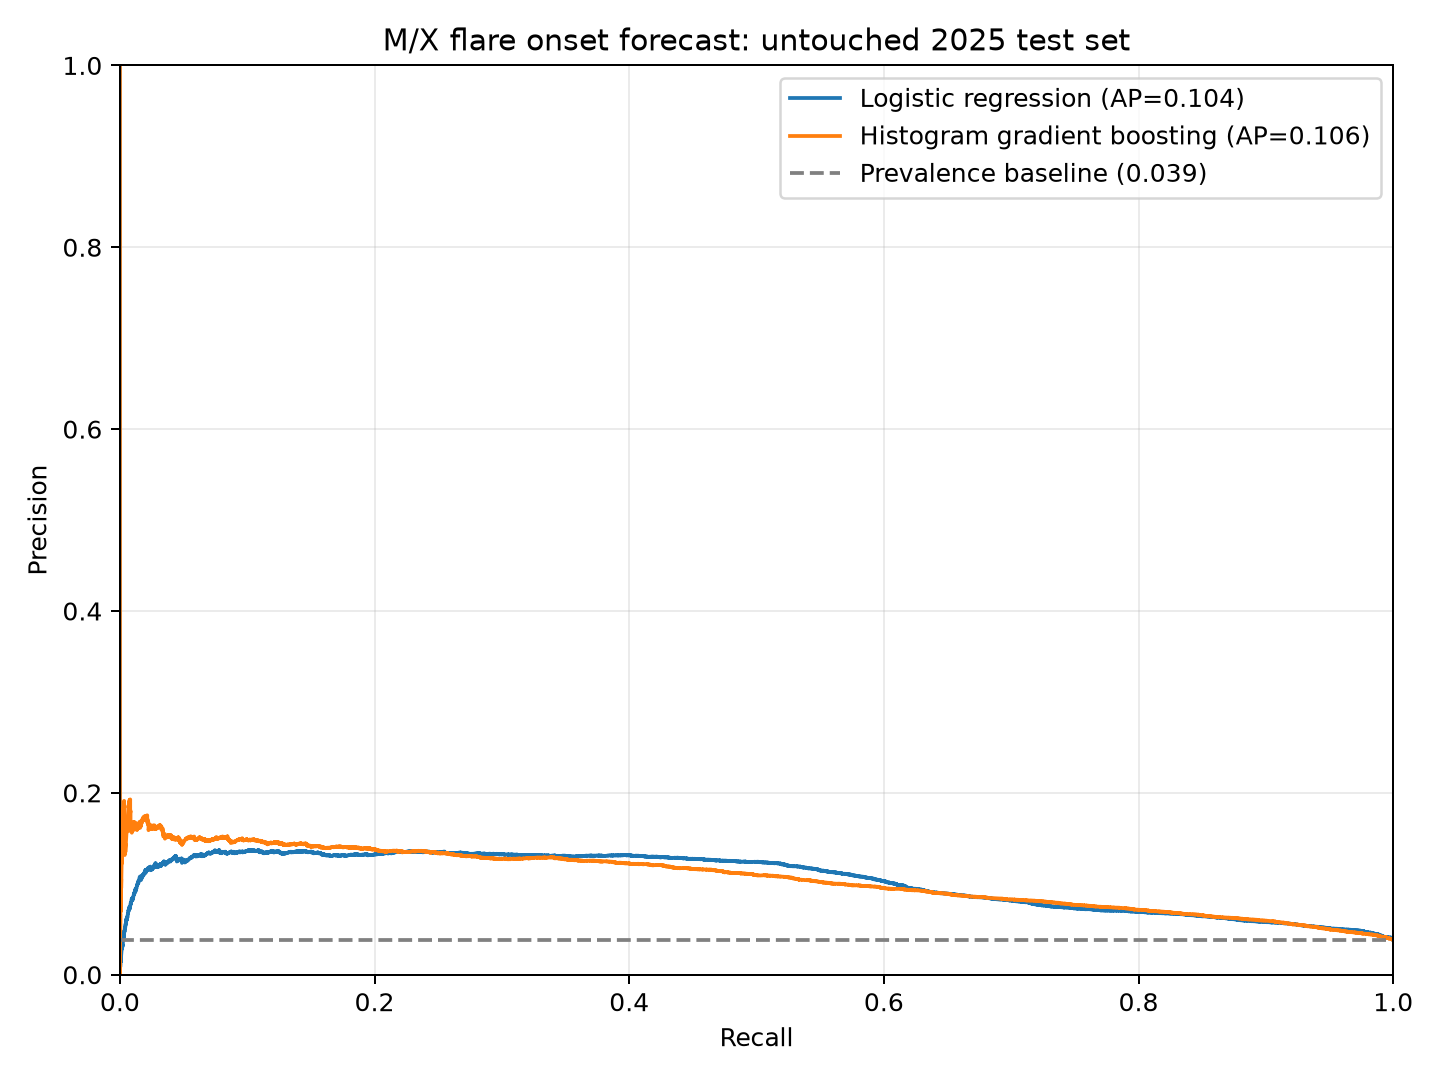
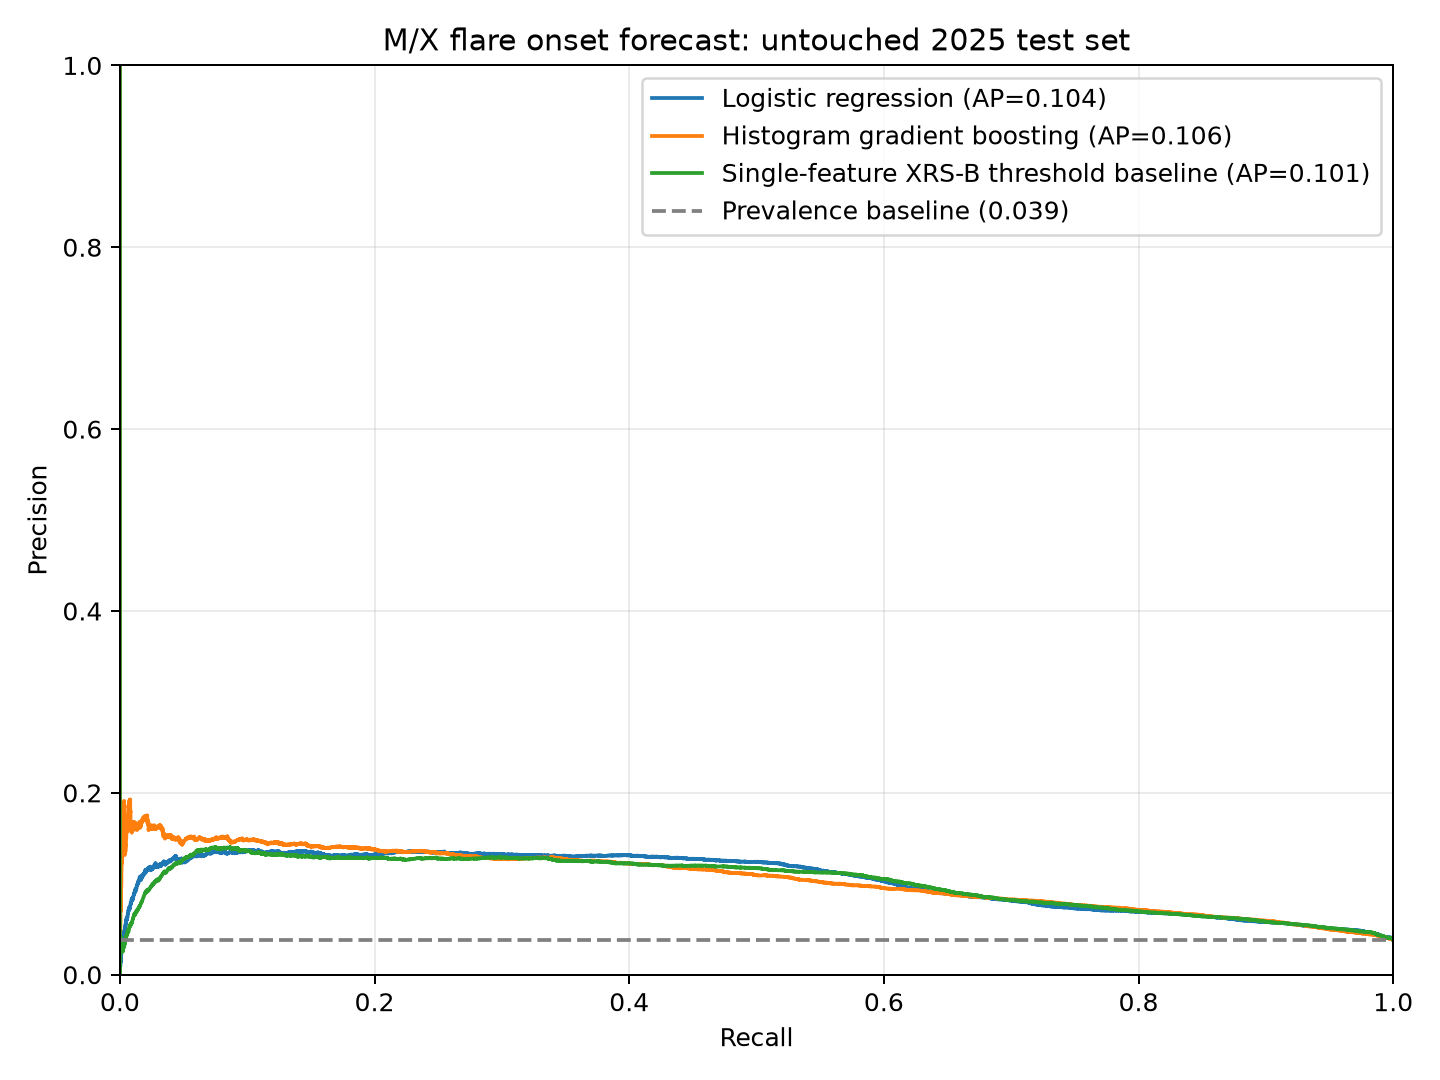
Compare forecasts with physical baseline and uncertainty

diff --git a/src/train_models.py b/src/train_models.py
@@ -49,12 +49,13 @@ def choose_f1_threshold(y_true: np.ndarray, probability: np.ndarray) -> float:
     return float(thresholds[int(np.nanargmax(f1))])
 
 
-def metrics(y_true: np.ndarray, probability: np.ndarray, threshold: float) -> dict[str, float]:
+def metrics(y_true: np.ndarray, probability: np.ndarray, threshold: float,
+            probability_score: bool = True) -> dict[str, float | None]:
     prediction = probability >= threshold
     return {
         "average_precision": float(average_precision_score(y_true, probability)),
         "roc_auc": float(roc_auc_score(y_true, probability)),
-        "brier_score": float(brier_score_loss(y_true, probability)),
+        "brier_score": float(brier_score_loss(y_true, probability)) if probability_score else None,
         "threshold": float(threshold),
         "precision_at_threshold": float(precision_score(y_true, prediction, zero_division=0)),
         "recall_at_threshold": float(recall_score(y_true, prediction, zero_division=0)),
@@ -64,13 +65,48 @@ def metrics(y_true: np.ndarray, probability: np.ndarray, threshold: float) -> di
     }
 
 
+def month_block_bootstrap(y: pd.Series, scores: dict[str, np.ndarray],
+                          repetitions: int = 1000, seed: int = 42) -> pd.DataFrame:
+    """Resample whole calendar months to retain within-month time dependence."""
+    month_labels = y.index.tz_localize(None).to_period("M")
+    month_groups = [np.flatnonzero(month_labels == month) for month in month_labels.unique()]
+    rng = np.random.default_rng(seed)
+    samples = {name: [] for name in scores}
+    for _ in range(repetitions):
+        selected = rng.integers(0, len(month_groups), size=len(month_groups))
+        indices = np.concatenate([month_groups[i] for i in selected])
+        target = y.to_numpy()[indices]
+        if target.min() == target.max():
+            continue
+        for name, score in scores.items():
+            samples[name].append(average_precision_score(target, score[indices]))
+    baseline_name = "Single-feature XRS-B threshold baseline"
+    rows = []
+    for name, values in samples.items():
+        values = np.asarray(values)
+        row = {"model": name, "valid_replicates": len(values),
+               "average_precision_median": float(np.median(values)),
+               "ci_2_5": float(np.quantile(values, .025)),
+               "ci_97_5": float(np.quantile(values, .975)),
+               "delta_vs_xrsb_median": np.nan,
+               "delta_ci_2_5": np.nan,
+               "delta_ci_97_5": np.nan}
+        if name != baseline_name and len(values):
+            delta = values - np.asarray(samples[baseline_name])
+            row.update({"delta_vs_xrsb_median": float(np.median(delta)),
+                        "delta_ci_2_5": float(np.quantile(delta, .025)),
+                        "delta_ci_97_5": float(np.quantile(delta, .975))})
+        rows.append(row)
+    return pd.DataFrame(rows)
+
+
 def main() -> None:
     FIGURES.mkdir(parents=True, exist_ok=True)
     frame = pd.read_csv(DATA, parse_dates=["time_utc"]).set_index("time_utc")
     # Each label looks 60 minutes ahead. Drop rows whose target horizon crosses split boundaries.
     train_end = pd.Timestamp("2024-01-01", tz="UTC")
     valid_end = pd.Timestamp("2025-01-01", tz="UTC")
-    horizon = pd.Timedelta(minutes=60)
+    horizon = pd.Timedelta("60min")
     train = frame.loc[frame.index < train_end - horizon]
     valid = frame.loc[(frame.index >= train_end) & (frame.index < valid_end - horizon)]
     test = frame.loc[(frame.index >= valid_end) & (frame.index < pd.Timestamp("2026-01-01", tz="UTC") - horizon)]
@@ -115,6 +151,34 @@ def main() -> None:
               f"recall={result['test_2025']['recall_at_threshold']:.3f}; "
               f"precision={result['test_2025']['precision_at_threshold']:.3f}", flush=True)
 
+    # Rank only current XRS-B irradiance as a simple physical benchmark.
+    train_flux = np.sort(X_train["log10_xrsb_now"].to_numpy())
+    flux_scores = {
+        "validation": np.searchsorted(train_flux, X_valid["log10_xrsb_now"].to_numpy(), side="right") / len(train_flux),
+        "test": np.searchsorted(train_flux, X_test["log10_xrsb_now"].to_numpy(), side="right") / len(train_flux),
+    }
+    flux_threshold = choose_f1_threshold(y_valid.to_numpy(), flux_scores["validation"])
+    baseline_name = "Single-feature XRS-B threshold baseline"
+    all_results[baseline_name] = {
+        "validation": metrics(y_valid.to_numpy(), flux_scores["validation"], flux_threshold, probability_score=False),
+        "test_2025": metrics(y_test.to_numpy(), flux_scores["test"], flux_threshold, probability_score=False),
+        "score_definition": "Empirical percentile rank of current log10 XRS-B in training data; rank is a score, not a probability.",
+    }
+    baseline_col = baseline_name.lower().replace(" ", "_")
+    predictions[baseline_col] = flux_scores["test"]
+    curves[baseline_name] = precision_recall_curve(y_test, flux_scores["test"])
+    print(f"Fitting {baseline_name}...", flush=True)
+    print(f"  test average precision={all_results[baseline_name]['test_2025']['average_precision']:.4f}; "
+          f"recall={all_results[baseline_name]['test_2025']['recall_at_threshold']:.3f}; "
+          f"precision={all_results[baseline_name]['test_2025']['precision_at_threshold']:.3f}", flush=True)
+
+    bootstrap = month_block_bootstrap(y_test, {
+        name: predictions[name.lower().replace(" ", "_")].to_numpy()
+        for name in all_results
+    })
+    (OUT / "tables").mkdir(exist_ok=True)
+    bootstrap.to_csv(OUT / "tables" / "monthly_block_bootstrap_ap_2025.csv", index=False, float_format="%.4f")
+
     base_rate = float(y_test.mean())
     payload = {
         "target": "M-class-or-stronger GOES flare start within the next 60 minutes",
@@ -123,6 +187,10 @@ def main() -> None:
         "rows": {"train": len(train), "validation": len(valid), "test": len(test)},
         "test_positive_rate_baseline_average_precision": base_rate,
         "models": all_results,
+        "uncertainty": {
+            "method": "Percentile interval from 1,000 bootstrap replicates sampling whole 2025 calendar months with replacement; preserves within-month dependence, but only 12 monthly blocks are available.",
+            "results_csv": "tables/monthly_block_bootstrap_ap_2025.csv",
+        },
         "interpretation": "Exploratory retrospective result. Overlapping time windows create dependence; performance is not an operational warning-system estimate.",
     }
     (OUT / "model_evaluation.json").write_text(json.dumps(payload, indent=2), encoding="utf-8")
@@ -165,9 +233,27 @@ def main() -> None:
         "",
         "![Precision-recall curves](figures/precision_recall_2025.png)",
         "",
+        "## Monthly block-bootstrap uncertainty",
+        "",
+        "Intervals resample whole calendar months (1,000 replicates), retaining within-month dependence. Only 12 test blocks are available, so these intervals are approximate.",
+        "",
+        "| Model | AP median | 95% block-bootstrap interval | Paired AP delta vs XRS-B | 95% interval for delta |",
+        "|---|---:|---:|---:|---:|",
+    ]
+    for _, row in bootstrap.iterrows():
+        delta = "—" if pd.isna(row["delta_vs_xrsb_median"]) else f"{row['delta_vs_xrsb_median']:+.3f}"
+        delta_ci = "—" if pd.isna(row["delta_ci_2_5"]) else f"{row['delta_ci_2_5']:+.3f}–{row['delta_ci_97_5']:+.3f}"
+        lines.append(f"| {row['model']} | {row['average_precision_median']:.3f} | {row['ci_2_5']:.3f}–{row['ci_97_5']:.3f} | {delta} | {delta_ci} |")
+    lines += [
+        "",
+        "",
+        "Paired differences use the same resampled months for each method and the XRS-B baseline. These intervals are more informative for model-versus-baseline comparison than separate AP intervals.",
+        "",
+        "Download: [`tables/monthly_block_bootstrap_ap_2025.csv`](tables/monthly_block_bootstrap_ap_2025.csv).",
+        "",
         "## Limitations",
         "",
-        "This is retrospective classification of overlapping 5-minute samples, not event-independent operational forecasting. The one-hour target horizon, threshold, alert burden, and event-level scoring need sensitivity analysis before making scientific or operational claims. The test period is a single solar-cycle year.",
+        "This is retrospective classification of overlapping five-minute samples, not an event-independent operational forecast. The single-feature XRS-B benchmark is an empirical percentile rank, not a probability. The complex model's AP advantage over the simple benchmark is small and the block-bootstrap intervals overlap; the simple benchmark has better event recall under this alarm rule. Event-level scores depend on the chosen threshold and episode rule, and uncertainty intervals use just 12 monthly groups. The test period is a single solar-cycle year.",
     ]
     (OUT / "first_model_evaluation.md").write_text("\n".join(lines) + "\n", encoding="utf-8")
     print(f"Saved {OUT / 'first_model_evaluation.md'}", flush=True)

diff --git a/src/evaluate_event_alerts.py b/src/evaluate_event_alerts.py
@@ -77,7 +77,7 @@ def main() -> None:
     table.to_csv(report / "tables" / "event_level_test_2025.csv", index=False, float_format="%.4f")
     lines = [
         "", "## Event-level alarm episodes", "",
-        "For an operationally interpretable complement to overlapping-window scores, threshold-crossing samples are merged into one alarm episode until a 60-minute quiet gap. An episode is a hit when an M/X catalog flare onset occurs in the next 60 minutes. Each flare is counted once; an alarm episode may cover multiple onsets. Median lead time is measured from episode start to its first matched onset.", "",
+        "To complement overlapping-window scores, threshold-crossing samples are merged into one alarm episode until a 60-minute quiet gap. An episode is a hit when an M/X catalog flare onset occurs in the next 60 minutes. Each flare is counted once; an alarm episode may cover multiple onsets. Median lead time is measured from episode start to its first matched onset.", "",
         "| Model | Alarm episodes | Hit episodes | Missed M/X events | Event recall | Episode precision | Median lead (min) |",
         "|---|---:|---:|---:|---:|---:|---:|",
     ]
@@ -85,14 +85,13 @@ def main() -> None:
         lines.append(f"| {row['model']} | {row['alarm_episodes']} | {row['hit_episodes']} | {row['missed_events']} | {row['event_recall']:.3f} | {row['episode_precision']:.3f} | {row['median_lead_minutes']:.1f} |")
     lines += ["", "Download: [`tables/event_level_test_2025.csv`](tables/event_level_test_2025.csv). These are retrospective episode scores under the stated one-hour matching rule; they are not a validated operational alert protocol.",
               "", "## Limitations", "",
-              "This is retrospective classification of overlapping five-minute samples, not an event-independent operational forecast. Results depend on the chosen alert threshold and episode matching rule. Only one solar-cycle year is held out; calibration, uncertainty, alternate alert policies, and simple flux-threshold baselines still need study before scientific or operational claims.", ""]
+              "This is retrospective classification of overlapping five-minute samples, not an event-independent operational forecast. The single-feature XRS-B baseline slightly underperforms the ML models on average precision but detects more events under this episode rule. The apparent AP difference is small and the 12-month bootstrap intervals overlap. Results depend on the alert threshold and episode matching rule; calibration, further years, alternate alert policies, and operational validation remain open.", ""]
     path = report / "first_model_evaluation.md"
     text = path.read_text(encoding="utf-8")
-    marker = "## Limitations"
-    if "## Event-level alarm episodes" in text:
-        text = text[:text.index("## Event-level alarm episodes")].rstrip() + "\n\n" + "\n".join(lines).lstrip()
-    else:
-        text = text.replace(marker, "\n".join(lines))
+    section_starts = [position for heading in ("## Event-level alarm episodes", "## Limitations")
+                      if (position := text.find(heading)) >= 0]
+    prefix = text[:min(section_starts)] if section_starts else text.rstrip() + "\n\n"
+    text = prefix.rstrip() + "\n\n" + "\n".join(lines).lstrip()
     path.write_text(text, encoding="utf-8")
     print(table.to_string(index=False))
 

diff --git a/reports/first_model_evaluation.md b/reports/first_model_evaluation.md
@@ -14,22 +14,39 @@
 |---|---:|---:|---:|---:|---:|---:|
 | Logistic regression | 0.104 | 0.763 | 0.132 | 0.187 | 0.155 | 5.49% |
 | Histogram gradient boosting | 0.106 | 0.760 | 0.127 | 0.297 | 0.178 | 9.01% |
+| Single-feature XRS-B threshold baseline | 0.101 | 0.763 | 0.128 | 0.246 | 0.168 | 7.40% |
 
 2025 event-window prevalence baseline AP: **0.039**.
 
 ![Precision-recall curves](figures/precision_recall_2025.png)
 
+## Monthly block-bootstrap uncertainty
+
+Intervals resample whole calendar months (1,000 replicates), retaining within-month dependence. Only 12 test blocks are available, so these intervals are approximate.
+
+| Model | AP median | 95% block-bootstrap interval | Paired AP delta vs XRS-B | 95% interval for delta |
+|---|---:|---:|---:|---:|
+| Logistic regression | 0.105 | 0.082–0.128 | +0.003 | -0.003–+0.010 |
+| Histogram gradient boosting | 0.106 | 0.086–0.129 | +0.004 | -0.004–+0.014 |
+| Single-feature XRS-B threshold baseline | 0.102 | 0.081–0.121 | — | — |
+
+
+Paired differences use the same resampled months for each method and the XRS-B baseline. These intervals are more informative for model-versus-baseline comparison than separate AP intervals.
+
+Download: [`tables/monthly_block_bootstrap_ap_2025.csv`](tables/monthly_block_bootstrap_ap_2025.csv).
+
 ## Event-level alarm episodes
 
-For an operationally interpretable complement to overlapping-window scores, threshold-crossing samples are merged into one alarm episode until a 60-minute quiet gap. An episode is a hit when an M/X catalog flare onset occurs in the next 60 minutes. Each flare is counted once; an alarm episode may cover multiple onsets. Median lead time is measured from episode start to its first matched onset.
+To complement overlapping-window scores, threshold-crossing samples are merged into one alarm episode until a 60-minute quiet gap. An episode is a hit when an M/X catalog flare onset occurs in the next 60 minutes. Each flare is counted once; an alarm episode may cover multiple onsets. Median lead time is measured from episode start to its first matched onset.
 
 | Model | Alarm episodes | Hit episodes | Missed M/X events | Event recall | Episode precision | Median lead (min) |
 |---|---:|---:|---:|---:|---:|---:|
 | Logistic regression | 387 | 48 | 301 | 0.152 | 0.124 | 22.5 |
 | Histogram gradient boosting | 686 | 50 | 298 | 0.161 | 0.073 | 26.5 |
+| Single-feature XRS-B threshold baseline | 679 | 65 | 281 | 0.208 | 0.096 | 22.0 |
 
 Download: [`tables/event_level_test_2025.csv`](tables/event_level_test_2025.csv). These are retrospective episode scores under the stated one-hour matching rule; they are not a validated operational alert protocol.
 
 ## Limitations
 
-This is retrospective classification of overlapping five-minute samples, not an event-independent operational forecast. Results depend on the chosen alert threshold and episode matching rule. Only one solar-cycle year is held out; calibration, uncertainty, alternate alert policies, and simple flux-threshold baselines still need study before scientific or operational claims.
+This is retrospective classification of overlapping five-minute samples, not an event-independent operational forecast. The single-feature XRS-B baseline slightly underperforms the ML models on average precision but detects more events under this episode rule. The apparent AP difference is small and the 12-month bootstrap intervals overlap. Results depend on the alert threshold and episode matching rule; calibration, further years, alternate alert policies, and operational validation remain open.

diff --git a/reports/portfolio_summary.md b/reports/portfolio_summary.md
@@ -27,7 +27,7 @@ This active interval illustrates the scale and timing of real XRS-B measurements
 
 ![Precision-recall curves](figures/precision_recall_2025.png)
 
-Average precision was 0.104 for logistic regression and 0.106 for histogram gradient boosting, versus a 0.039 prevalence baseline. The thresholds were chosen using 2024 validation data. On the overlapping five-minute windows, gradient boosting reached 0.30 recall and 0.13 precision at a 9.01% alert rate.
+Average precision was 0.104 for logistic regression and 0.106 for histogram gradient boosting, versus 0.101 for an XRS-B-only threshold benchmark and a 0.039 prevalence baseline. The ML model's small AP advantage over the simple benchmark has overlapping month-block bootstrap intervals. On the overlapping five-minute windows, gradient boosting reached 0.30 recall and 0.13 precision at a 9.01% alert rate.
 
 ## 4. How alert rates changed by month in the holdout year
 
@@ -37,7 +37,7 @@ The threshold remains fixed across 2025. Month-to-month variation highlights why
 
 ## 5. What happens when alerts are grouped by flare event?
 
-Window scores can make a run of adjacent alerts look like many independent successes. Grouping alerts into episodes gives a more conservative view: under the documented rule, histogram gradient boosting detected 16% of distinct 2025 M/X events, and 7% of alarm episodes were followed by an event within one hour. This exposes a substantial false-alert and missed-event problem. See the [event-level evaluation](first_model_evaluation.md#event-level-alarm-episodes) and its [CSV table](tables/event_level_test_2025.csv).
+Window scores can make a run of adjacent alerts look like many independent successes. Grouping alerts into episodes gives a more conservative view: under the documented rule, histogram gradient boosting detected 16% of distinct 2025 M/X events, and 7% of alarm episodes were followed by an event within one hour. The one-feature XRS-B benchmark detected 21% with 10% episode precision. This exposes a substantial false-alert and missed-event problem, and shows that added model complexity has not improved event-level detection. See the [event-level evaluation](first_model_evaluation.md#event-level-alarm-episodes) and its [CSV table](tables/event_level_test_2025.csv).
 
 ## Evaluation design and limitations
 
@@ -53,3 +53,5 @@ Window scores can make a run of adjacent alerts look like many independent succe
 - [First model evaluation](first_model_evaluation.md)
 - [Annual event-count table](tables/flare_counts_by_year.csv)
 - [Monthly 2025 test table](tables/monthly_test_metrics_2025.csv)
+- [Monthly block-bootstrap AP intervals](tables/monthly_block_bootstrap_ap_2025.csv)
+- [Event-level alarm episode metrics](tables/event_level_test_2025.csv)

diff --git a/README.md b/README.md
@@ -16,7 +16,7 @@ See the [visual report](reports/portfolio_summary.md) for the signal-vs-flare pl
 
 The first end-to-end run uses science-quality GOES-18 XRS data from June 2022 through 2025 and NOAA's event catalog. It contains 1.86 million one-minute timestamps, 1,867 cataloged M/X events within the measurement interval, and 350,060 five-minute modeling rows after data-quality and feature-window checks.
 
-On the untouched 2025 test year, average precision was 0.104 for logistic regression and 0.106 for histogram gradient boosting, compared with a 0.039 positive-rate baseline. Under the documented alarm-episode rule, gradient boosting detected 16% of M/X events; about 7% of alarm episodes were followed by an event within one hour. The episode rule is exploratory and reveals substantial false-alert burden; results do not establish operational forecast skill. See [`reports/first_model_evaluation.md`](reports/first_model_evaluation.md) and [`reports/initial_data_audit.md`](reports/initial_data_audit.md).
+On the untouched 2025 test year, histogram gradient boosting reached average precision 0.106 versus 0.101 for a one-feature XRS-B benchmark and a 0.039 prevalence baseline. Their month-block bootstrap intervals overlap. Under the documented alarm-episode rule, the simple XRS-B benchmark detected 21% of M/X events versus 16% for gradient boosting. This modest ranking lift and high false-alert burden do not establish operational forecast skill. See [`reports/first_model_evaluation.md`](reports/first_model_evaluation.md) and [`reports/initial_data_audit.md`](reports/initial_data_audit.md).
 
 ## Methods
 
@@ -27,7 +27,8 @@ On the untouched 2025 test year, average precision was 0.104 for logistic regres
 - Features use observations at or before `t`; rolling windows require at least 25 valid minutes in the preceding 30 minutes.
 - Five-minute sampling reduces highly redundant rows.
 - Chronological split: train on 2022–2023, choose thresholds on 2024, report test metrics on 2025. Label horizons are kept inside their split.
-- Metrics include average precision, ROC-AUC, precision, recall, F1, alert rate, and a prevalence baseline.
+- Metrics include average precision, ROC-AUC, precision, recall, F1, alert rate, an event-window prevalence baseline, and a simple XRS-B-only rank benchmark. Thresholded alerts also receive event-level episode scores.
+- Month-block bootstrap intervals resample whole calendar months to account for within-month dependence; only 12 holdout blocks are available, so intervals are approximate.
 
 ## Quick start on Windows PowerShell
 
